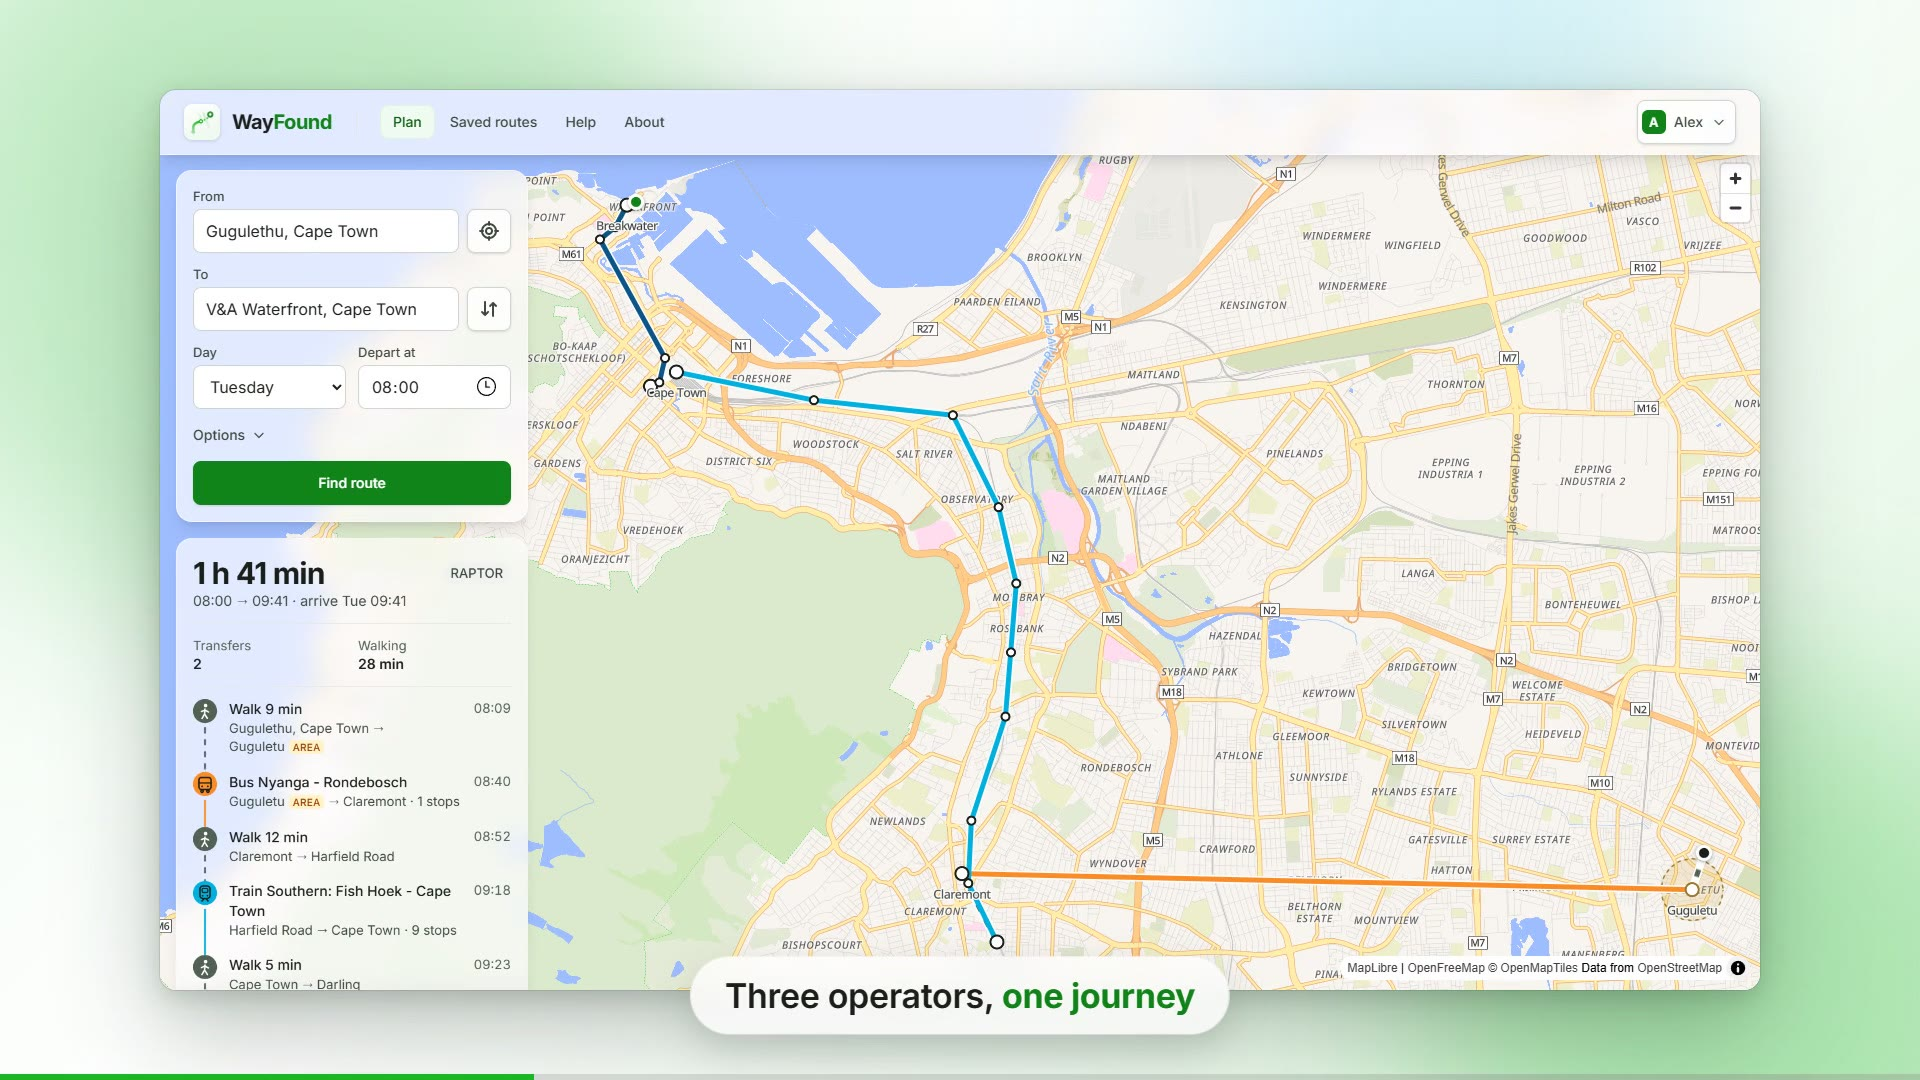
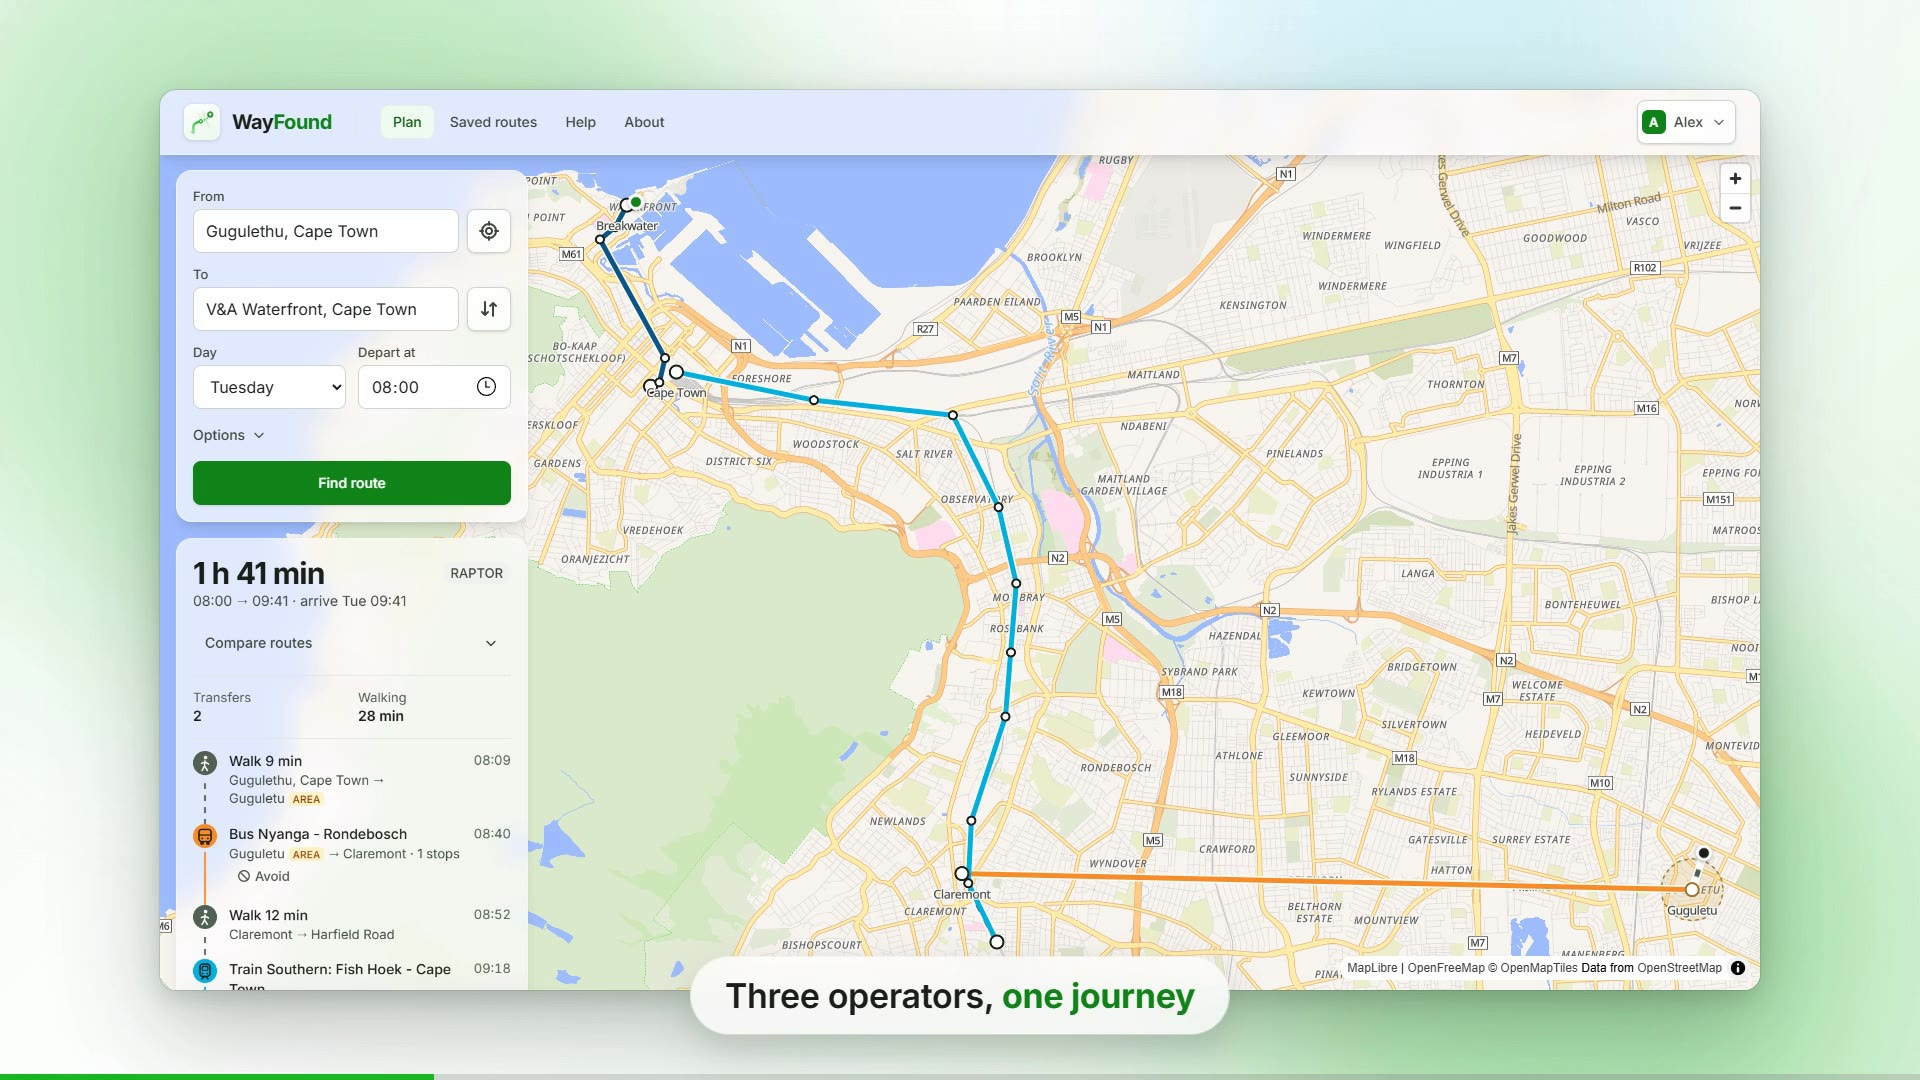
help video re-rendered at 30 fps with motion blur; captions track off by default on the help page
The captions are drawn into the video, so the text track no longer shows them a second time unless a viewer turns it on.

diff --git a/src/frontend/src/pages/FAQ.jsx b/src/frontend/src/pages/FAQ.jsx
@@ -43,7 +43,7 @@ export default function FAQ() {
                     aria-label="Journey plan walkthrough"
                 >
                     <source src="/help-video.mp4" type="video/mp4" />
-                    <track kind="captions" src="/help-video.vtt" srcLang="en" label="English" default />
+                    <track kind="captions" src="/help-video.vtt" srcLang="en" label="English" />
                 </video>
             </Panel>
 
